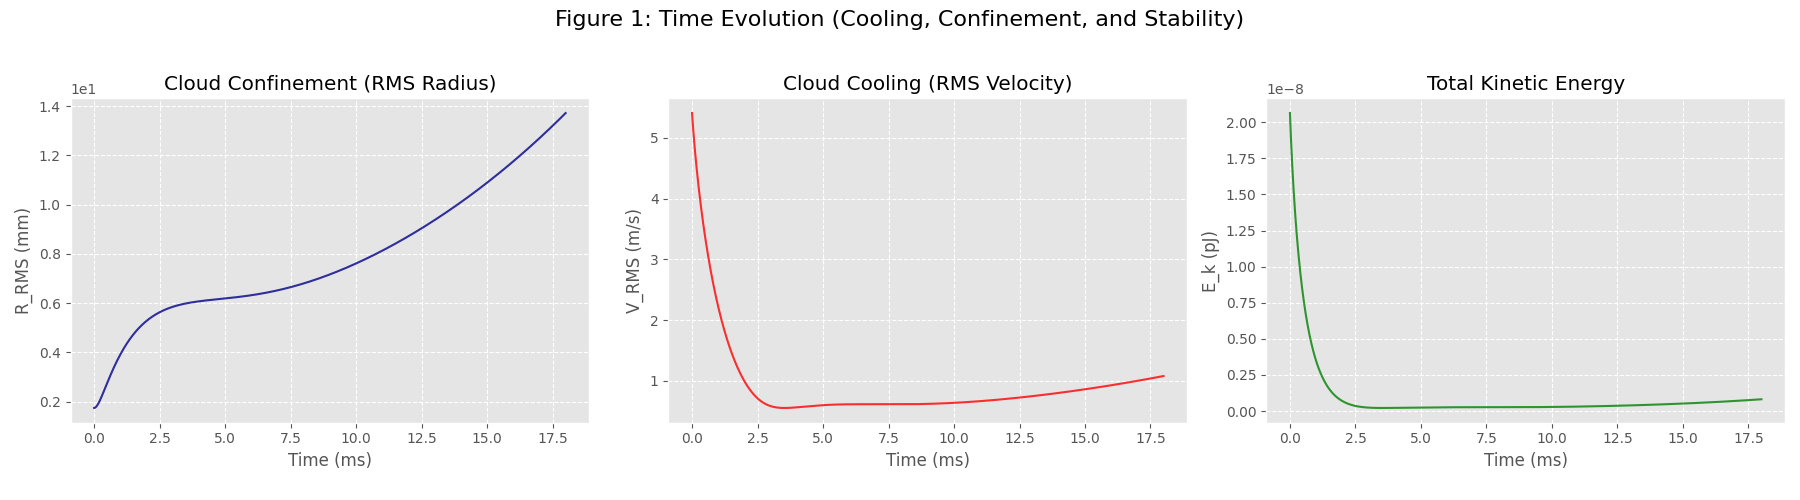
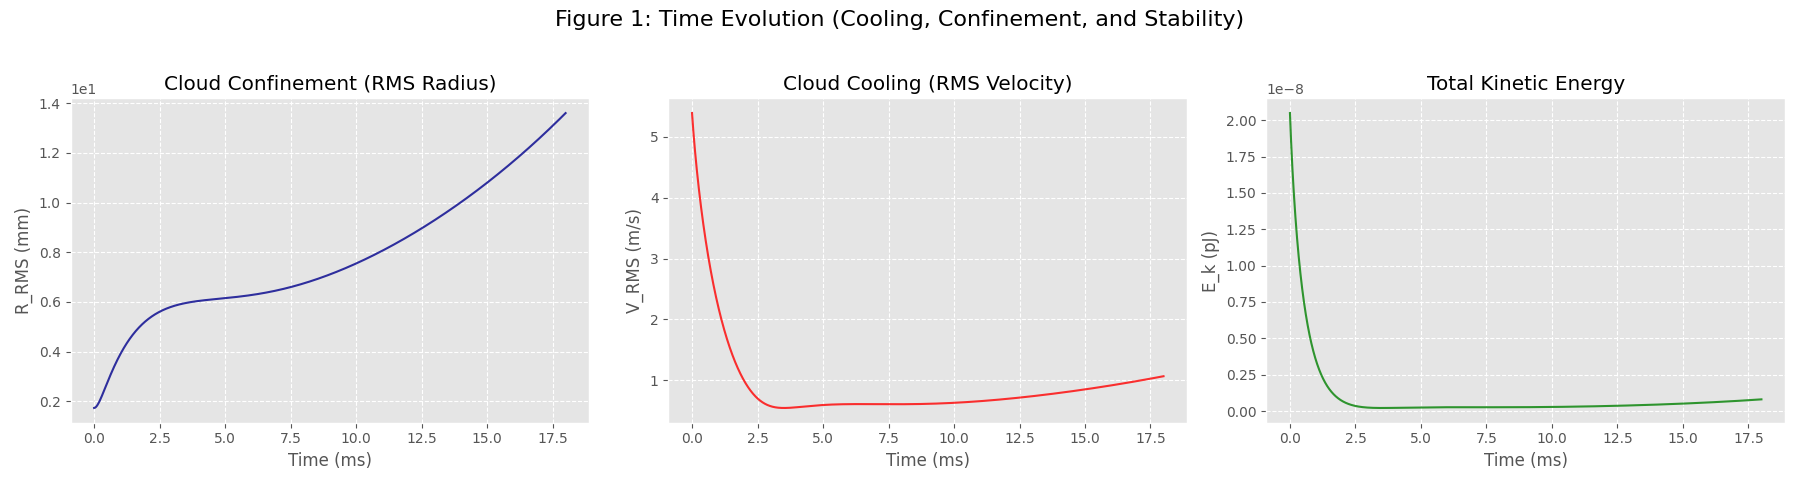
new results with low opt_depth

diff --git a/simulation.py b/simulation.py
@@ -167,7 +167,7 @@ def calculate_attenuation_map(positions, velocities, B_mag, B_factor):
         O_depth[sort_indices] = O_sorted
         
         # Attenuated intensity (Eq. 13)
-        I_alpha_pm = I_infinity * np.exp(-O_depth)
+        I_alpha_pm = I_infinity * np.exp(- O_depth * 1e-2)
         I_att_map[(axis, sign)] = I_alpha_pm
         
     return I_att_map, p_map
